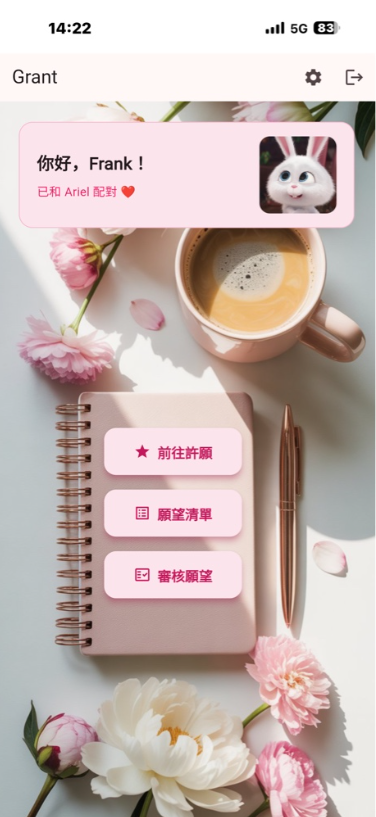
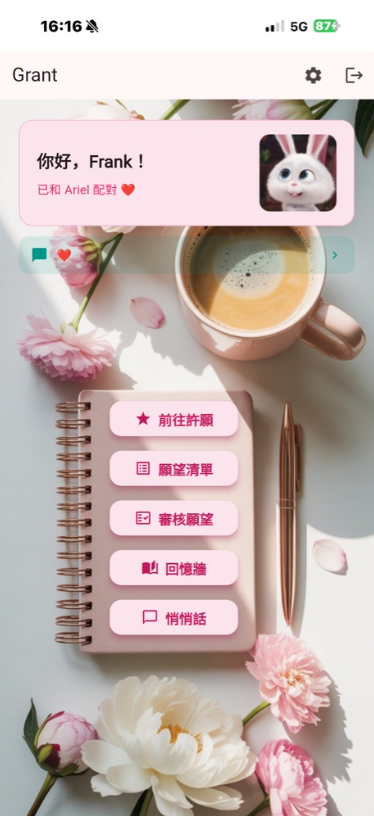
docs(readme): update preview screenshots (home, make_a_wish)

diff --git a/README.md b/README.md
@@ -31,7 +31,7 @@
 <p align="center">
   <img src="docs/screenshots/home.png" width="32%" alt="首頁" />
   &nbsp;&nbsp;
-  <img src="docs/screenshots/wish.png" width="32%" alt="許願頁" />
+  <img src="docs/screenshots/make_a_wish.png" width="32%" alt="許願頁" />
 </p>
 
 ---
